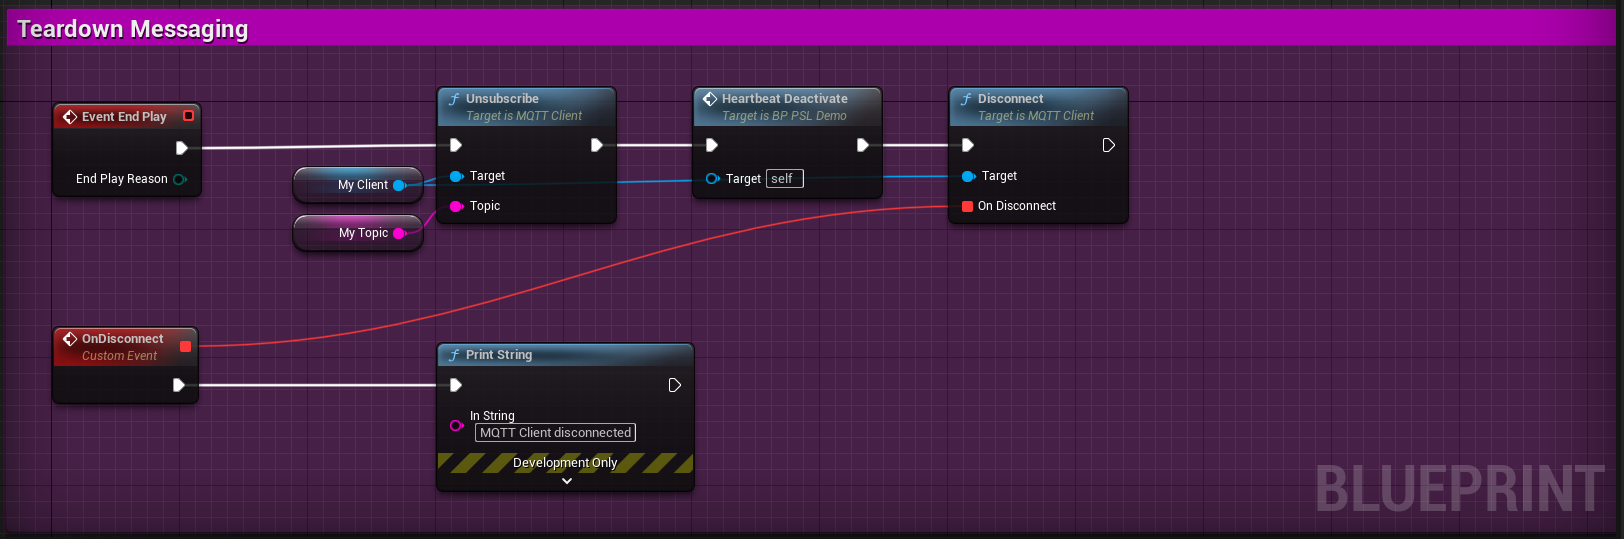
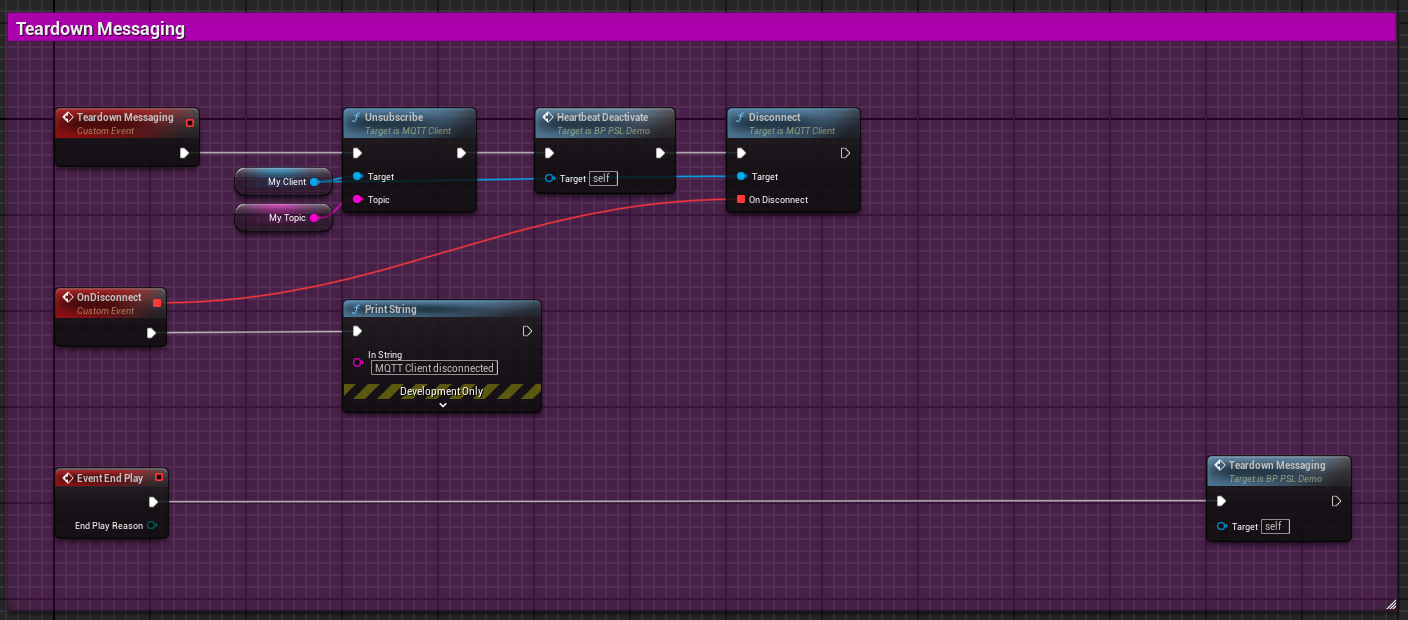
doc: update readme, MQTT connection

diff --git a/README.md b/README.md
@@ -182,7 +182,7 @@ Blueprint `BP_PSL_Demo` has components and variables as follows (see figure 2.4.
 Blueprint `BP_PSL_Demo` has events as follows (see figure 2.6.):
 
 * Gameplay: `EventBeginPlay`, `EventEndPlay`
-* Messaging: `OnConnect`, `OnDisconnect`, `OnMessage`
+* Messaging: `OnConnect`, `OnDisconnect`, `OnMessage`, `Teardown Messaging`
 * Visualisation:
   * Main: `HeartbeatStandby`, `HeartbeatUpdate`, `HeartbeatDeactivate`
   * Helpers: `TextRenderBlink`, `HeartbeatReset`
@@ -328,7 +328,7 @@ PIE: Play in editor total start time 0.132 seconds.
 
 On `EventBeginPlay` an MQTT-Client is created and connected (see figure 3.1.). The MQTT-Plugin writes to the output log with custom log category `LogMQTTCore` (see listing 3.2.). Wireshark dissecting port 1883 lists, e.g., the `Connect Command` sent from the UE MQTT-Client (see figure 3.2.).
 
-With event `OnConnect` &ndash; if the connection was accepted &ndash; the topic is subscribed and event `HeartbeatStandby` is called (cp. section 3.1.1.). With event `OnMessage` the received message is evaluated by calling event `HeartbeatUpdate` (cp. section 3.1.2.).
+With event `OnConnect` &ndash; if the connection was accepted &ndash; the topic is subscribed (cp. section 3.1.1.). With event `OnMessage` the received message is evaluated by calling event `HeartbeatUpdate` (cp. section 3.1.2.).
 
 ![Blueprint BP_PSL_Demo, Event Graph Section 'Startup Messaging'](Docs/UEProjectHeartbeat-BP_PSL_Demo_Startup.png)
 *Figure 3.1.: Blueprint BP_PSL_Demo, Event Graph Section 'Startup Messaging'*
@@ -436,7 +436,7 @@ LogBlueprintUserMessages: [BP_PSL_Demo_C_1] {
 
 ### 3.2. Messaging Teardown
 
-With stopping PIE, on `EventEndPlay` the topic is unsubscribed (see figure 3.7.). With event `HeartbeatDeactivate` the Mesh Component `HeartMesh` and the TextRenderActor animation is stopped and reset (see figure 3.8.). Then the MQTT-Client disconnects, `OnDisconnect` a message is printed to the output log (see listing 3.4.).
+With stopping PIE, on `EventEndPlay` custom event `Teardown Messaging` is called: The topic is unsubscribed (see figure 3.7.). With event `HeartbeatDeactivate` the Mesh Component `HeartMesh` and the TextRenderActor animation is stopped and reset (see figure 3.8.). Then the MQTT-Client disconnects, `OnDisconnect` a message is printed to the output log (see listing 3.4.).
 
 ![Blueprint BP_PSL_Demo, Event Graph Section 'Teardown'](Docs/UEProjectHeartbeat-BP_PSL_Demo_Teardown.png)
 *Figure 3.7.: Blueprint BP_PSL_Demo, Event Graph Section 'Teardown'*
